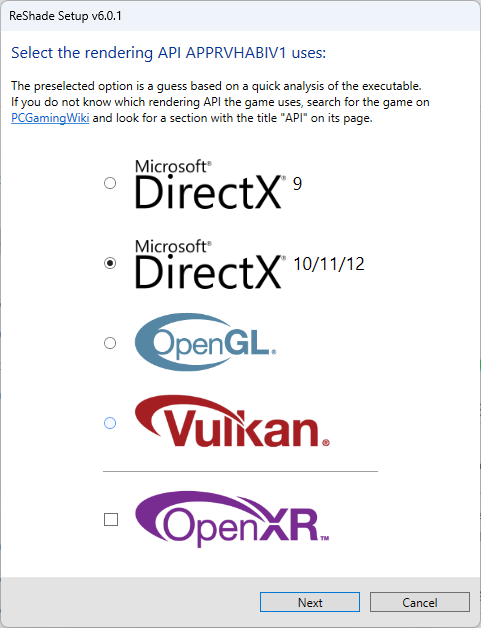
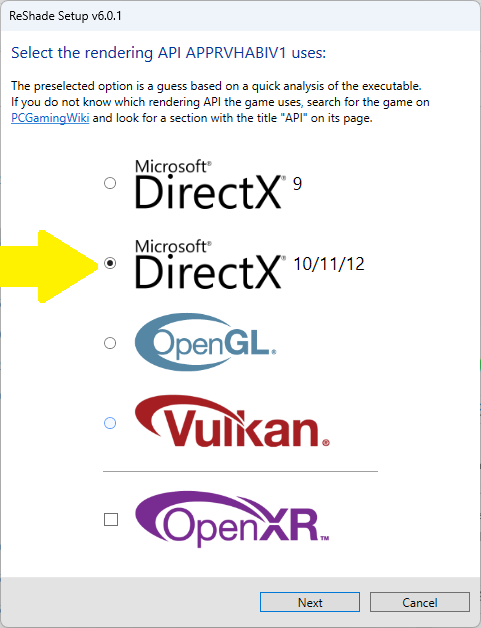
maj

Changed region(s): [[0.0, 0.3631, 0.2183, 0.4841]]

diff --git a/guide3/DEC-Hack.md b/guide3/DEC-Hack.md
@@ -2,9 +2,15 @@
 
 ### installation de reshade
 
-l'aplication reshade installer sur l'ordinateur on va pouvoir le configurer. dans un premier temps on va selectionner l'application.
+l'aplication reshade installer sur l'ordinateur on va pouvoir le configurer. dans un premier temps on va selectionner  l'application, 
 
 <img src="/guide3/image/reshade1.png" alt="Selectionner Browse" height="auto" width="350">
+
+
+ensuite on va selectionner le Direct X 10/11/12, puis next
+
+<img src="/guide3/image/reshade2.png" alt="Selectionner direct x 10" height="auto" width="350">
+
 
 ### bug et remarque 
 
